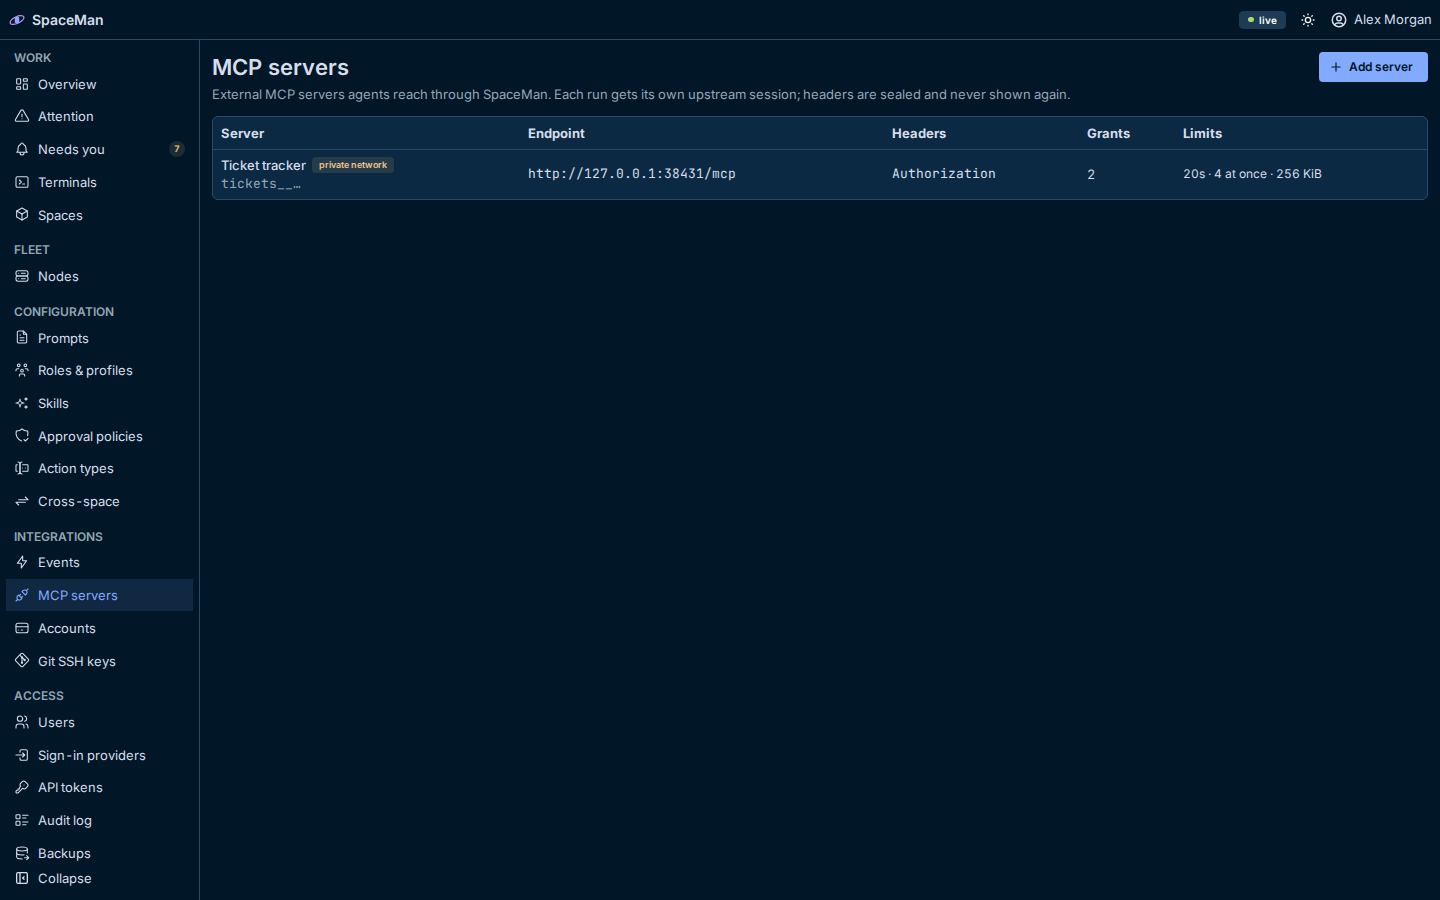
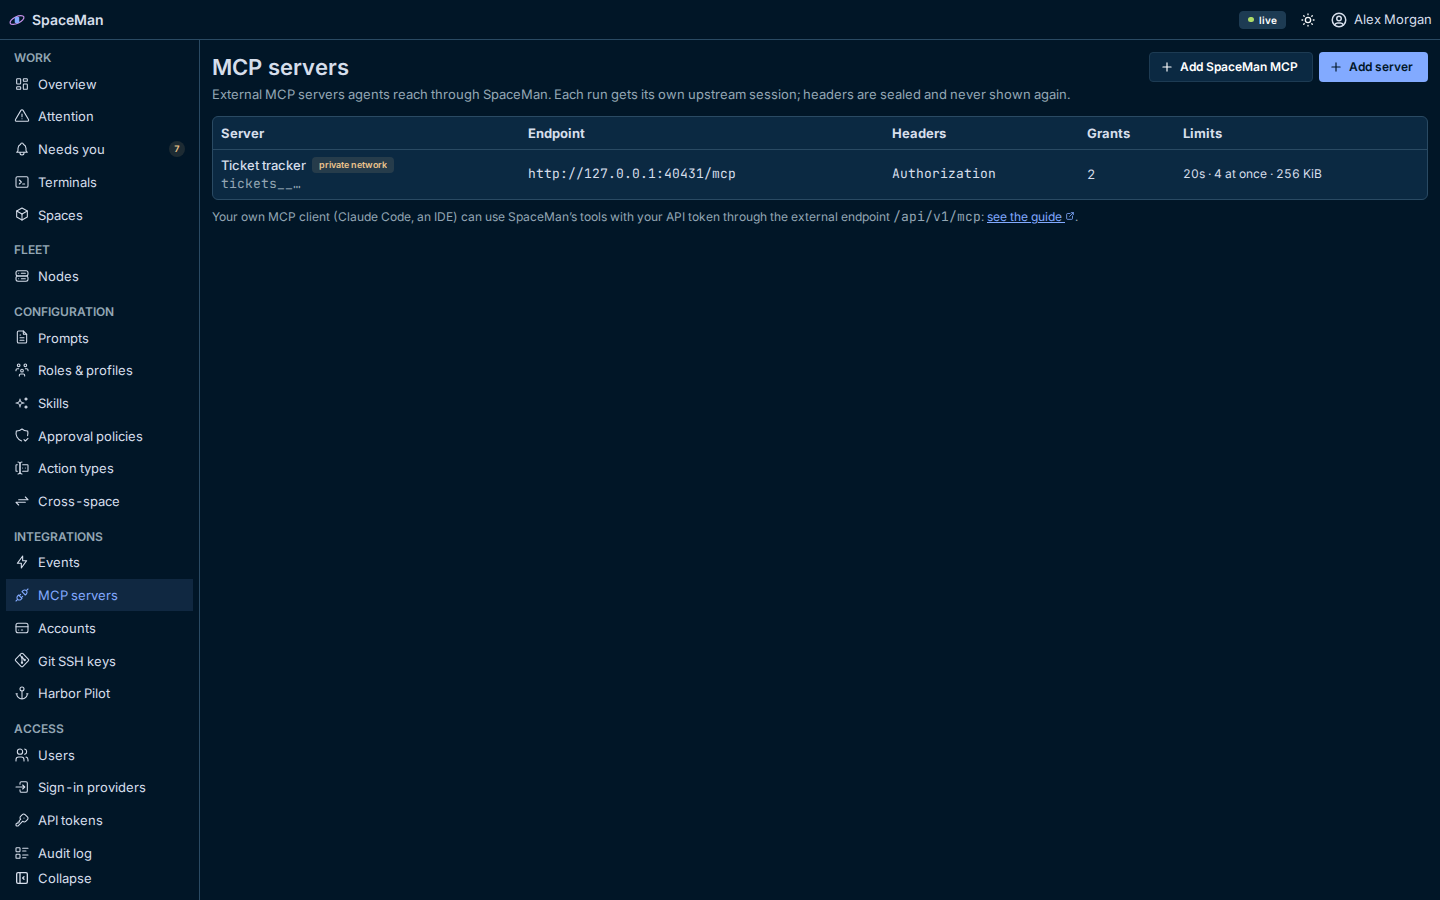
docs(screenshots): refresh the MCP servers and System shots
The MCP servers list and server drawer show the underlined guide link.
The ops-system capture now waits for a refetch that counts the page's
own change-feed stream, so Live streams is not 0.

Changed region(s): [[0.1562, 0.2178, 0.75, 0.2489], [0.0, 0.7467, 0.0938, 0.9644], [0.7812, 0.0311, 0.9375, 0.0933]]

diff --git a/web/e2e/screenshots.spec.ts b/web/e2e/screenshots.spec.ts
@@ -1188,6 +1188,8 @@ test('documentation screenshots', async ({ page, browser }) => {
     await page.goto('/system')
     await expect(page.getByTestId('system-status').getByText('Accepting writes')).toBeVisible()
     await expect(page.getByTestId('system-status').getByText(/^boot_/)).toBeVisible()
+    // The first fetch can run before the page's own change feed connects: wait for a refetch (every 15 s) that counts it.
+    await expect(page.getByTestId('system-counts')).toContainText(/Live streams[1-9]/, { timeout: 40_000 })
   })
   mkdirSync(join(process.cwd(), 'test-results'), { recursive: true })
   writeFileSync(join(process.cwd(), 'test-results', 'a11y-report.txt'), a11y.join('\n') + '\n')
